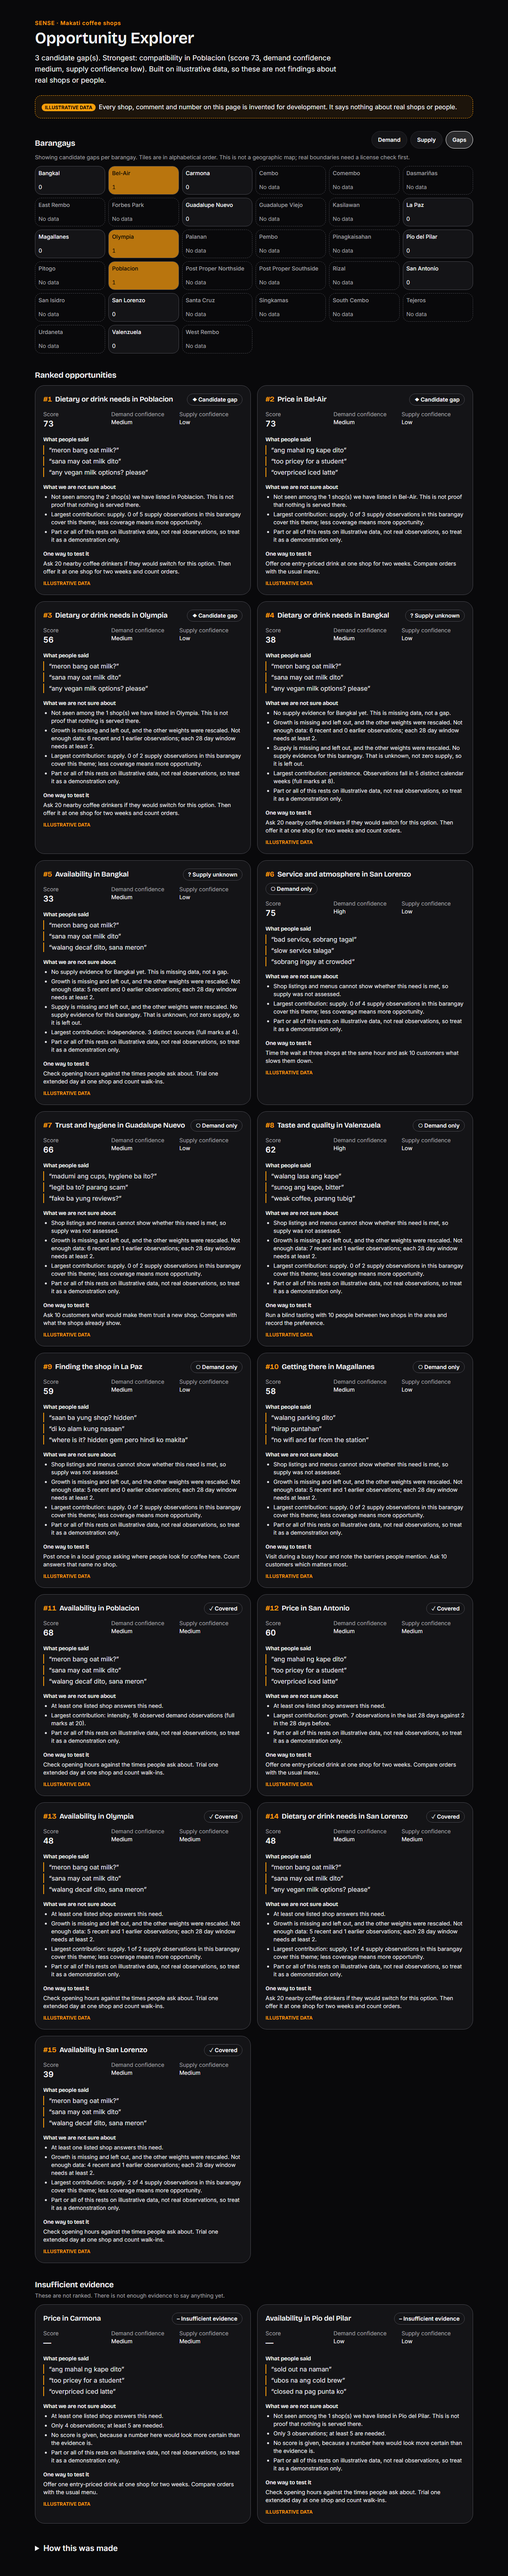
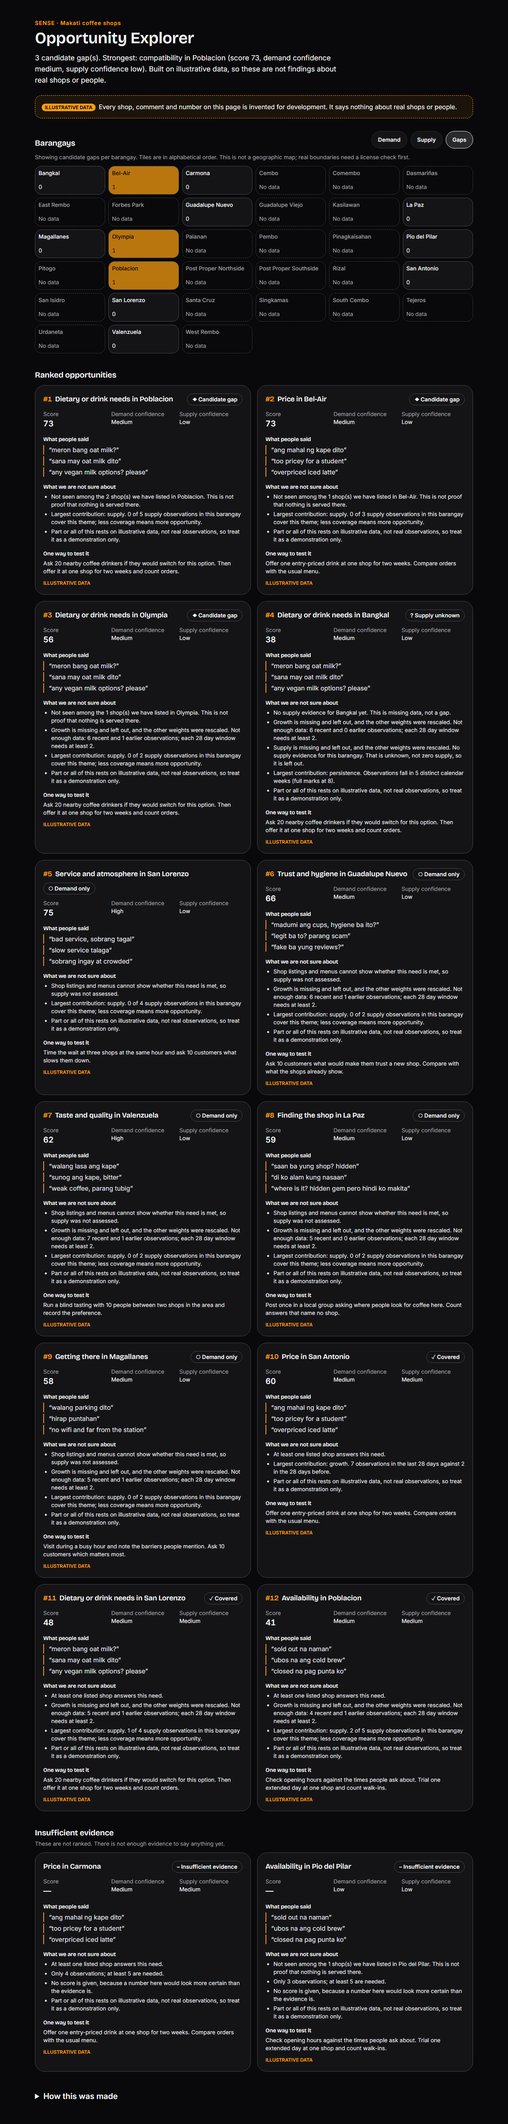
Friction miner: count a question about a specific need once, not also as availability

Changed region(s): [[0.0625, 0.0, 0.9375, 0.9989], [0.5312, 0.874, 0.9062, 0.9989], [0.7812, 0.874, 0.9062, 0.9052]]

diff --git a/backend/sense/friction.py b/backend/sense/friction.py
@@ -211,15 +211,23 @@ def classify_text(text: str) -> list[Match]:
     needs_shown = has_question or any(rx.search(norm) for rx in _NEED_REGEX)
     requested = any(rx.search(norm) and (not q or has_question) for rx, q in _REQUEST_REGEX)
 
-    matches = []
+    found: dict[str, list[str]] = {}
     for friction in FRICTIONS:
         cues = _cues_for(friction, norm)
         if friction in GATED_FRICTIONS and not (needs_shown or requested):
             cues = []
-        if friction == "availability" and requested:
-            cues.append(REQUEST_CUE)
-        if cues:
-            matches.append(Match(friction, tuple(cues), language))
+        found[friction] = cues
+    # A plain request ("do you have pasta?") is an availability need only when it names nothing more specific.
+    # "meron bang oat milk?" is a compatibility need; counting it as availability too would double count it.
+    # A real availability cue in the same comment ("... sold out lagi") keeps the request as corroboration.
+    names_specific_need = any(cues for friction, cues in found.items() if friction != "availability")
+    if requested and (not names_specific_need or found["availability"]):
+        found["availability"] = found["availability"] + [REQUEST_CUE]
+
+    matches = []
+    for friction in FRICTIONS:
+        if found[friction]:
+            matches.append(Match(friction, tuple(found[friction]), language))
     matches.sort(key=lambda m: -len(m.cues))  # stable: ties keep FRICTIONS order
     return matches
 

diff --git a/backend/tests/test_sense_friction.py b/backend/tests/test_sense_friction.py
@@ -72,9 +72,14 @@ class NegationTests(unittest.TestCase):
 
 
 class QuestionTests(unittest.TestCase):
-    def test_need_question_is_compatibility_and_availability(self):
-        found = frictions("Meron bang oat milk?")
-        self.assertEqual(found, {"compatibility", "availability"})
+    def test_a_question_about_a_specific_need_is_counted_once_as_that_need(self):
+        # "meron bang oat milk?" is a compatibility need. It is not also an availability need.
+        self.assertEqual(frictions("Meron bang oat milk?"), {"compatibility"})
+        self.assertEqual(frictions("Any vegan milk options? please"), {"compatibility"})
+        self.assertEqual(frictions("do you have lactose free milk?"), {"compatibility"})
+
+    def test_a_request_with_a_real_availability_cue_keeps_both(self):
+        self.assertEqual(frictions("Meron bang oat milk? Sold out lagi"), {"compatibility", "availability"})
 
     def test_praise_of_a_diet_item_is_not_demand(self):
         self.assertEqual(classify_text("I love the oat milk latte here"), [])

diff --git a/docs/phase-2-8-exit-gate.md b/docs/phase-2-8-exit-gate.md
@@ -25,7 +25,7 @@ The same browser suite run against the working folder, with uncommitted edits to
 - Phase 2.1 is not closed for the same reason.
 - The map is alphabetical tiles, not geography. Real boundaries need a license check.
 - Scoring weights and caps are judgment calls, not calibrated on real data.
-- The friction miner can count one comment under two frictions. The map counts a comment once; the scorer counts observations.
+- The friction miner can still count one comment under two frictions when it really shows two (for example price and slow service). A question that names a specific need ("meron bang oat milk?") is now counted once, as that need, not also as availability. The map counts a comment once; the scorer counts observations.
 - Only compatibility, affordability and availability can be checked against menus and hours. Five other frictions are reported as demand only.
 - The "agents" are plain code, not language models.
 - Agent-written code (friction mining, scoring) was checked by running its tests, not read line by line.
